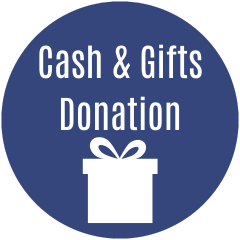
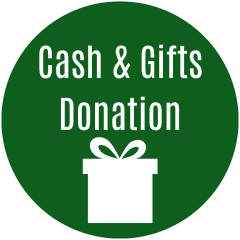
Added team member name, renamed files of those new members, added donation descriptions

diff --git a/_layouts/service.html b/_layouts/service.html
@@ -25,7 +25,7 @@ bodyClass: "page-service"
                   </div>
                   {% endif %}
                   <!-- <h2 class="feature-title">{{ feature.description }}</h2> -->
-                  <!-- <div class="feature-content">{{ feature.description }}</div> -->
+                  <div class="feature-content">{{ feature.description }}</div>
                 </div>
               </div>
               {% endfor %}

diff --git a/assets/css/style.scss b/assets/css/style.scss
@@ -2,8 +2,8 @@
 ---
 
 // Colors
-$primary: #002f59;
-$primary-dark: #002f59;
+$primary: #0e5e1e;
+$primary-dark: #0e5e1e;
 $secondary: #f88379;
 $black: #2f2f41;
 $white: #ffffff;

diff --git a/_team/roman.md b/_team/roman.md
@@ -1,0 +1,10 @@
+---
+title: "Roman"
+date: 2018-12-20T13:44:30+10:00
+image: "https://media.licdn.com/dms/image/v2/C4E03AQGqUZfsJ7Oy4Q/profile-displayphoto-shrink_800_800/profile-displayphoto-shrink_800_800/0/1626424504198?e=1743638400&v=beta&t=APK0xNMgZyLMDP-gBEfH3u3oqC-twDWlKdz79qkrt_Q"
+jobtitle: "Internal and Grading Committee Coordinator"
+linkedinurl: ""
+weight: 3
+---
+
+Lorem ipsum dolor sit amet, consectetur adipiscing elit, sed do eiusmod tempor incididunt ut labore et dolore magna aliqua. Bibendum arcu vitae elementum curabitur vitae nunc sed. Tortor at risus viverra adipiscing at in.

diff --git a/_team/angel-a.md b/_team/angel-a.md
@@ -1,0 +1,11 @@
+---
+title: "Angel Avalos"
+date: 2018-11-19T10:47:58+10:00
+image: "https://media.licdn.com/dms/image/v2/C4E03AQGqUZfsJ7Oy4Q/profile-displayphoto-shrink_800_800/profile-displayphoto-shrink_800_800/0/1626424504198?e=1743638400&v=beta&t=APK0xNMgZyLMDP-gBEfH3u3oqC-twDWlKdz79qkrt_Q"
+jobtitle: "Chief Financial Officer"
+linkedinurl: "https://www.linkedin.com/example2"
+promoted: true
+weight: 2
+---
+
+Very epic person.

diff --git a/_team/luis-v.md b/_team/luis-v.md
@@ -1,0 +1,11 @@
+---
+title: "Luis Velazquez"
+date: 2018-11-19T10:47:58+10:00
+image: "https://media.licdn.com/dms/image/v2/C5603AQHvWqqNv7dZSQ/profile-displayphoto-shrink_800_800/profile-displayphoto-shrink_800_800/0/1629663704275?e=1743033600&v=beta&t=A72tvulweJ-px3H6L_iN7roM_ueJeyaQVgewMF-9Sqk"
+jobtitle: "President"
+linkedinurl: "https://www.linkedin.com/in/luis-velasquez-jr/"
+promoted: true
+weight: 1
+---
+
+Mortalis.

diff --git a/_team/karina.md b/_team/karina.md
@@ -1,0 +1,8 @@
+---
+title: "Karina"
+date: 2018-12-20T13:44:23+10:00
+image: "https://media.licdn.com/dms/image/v2/C4E03AQGqUZfsJ7Oy4Q/profile-displayphoto-shrink_800_800/profile-displayphoto-shrink_800_800/0/1626424504198?e=1743638400&v=beta&t=APK0xNMgZyLMDP-gBEfH3u3oqC-twDWlKdz79qkrt_Q"
+jobtitle: "School Outreach Ambassador"
+linkedinurl: "https://www.linkedin.com/"
+weight: 3
+---

diff --git a/_team/derek.md b/_team/derek.md
@@ -1,0 +1,8 @@
+---
+title: "Derek"
+date: 2018-11-19T10:47:58+10:00
+image: "https://media.licdn.com/dms/image/v2/C4E03AQGqUZfsJ7Oy4Q/profile-displayphoto-shrink_800_800/profile-displayphoto-shrink_800_800/0/1626424504198?e=1743638400&v=beta&t=APK0xNMgZyLMDP-gBEfH3u3oqC-twDWlKdz79qkrt_Q"
+jobtitle: "External Outreach Coordinator"
+linkedinurl: ""
+weight: 7
+---

diff --git a/_team/nubia.md b/_team/nubia.md
@@ -1,0 +1,8 @@
+---
+title: "Nubia"
+date: 2018-12-20T13:45:06+10:00
+image: "https://media.licdn.com/dms/image/v2/C4E03AQGqUZfsJ7Oy4Q/profile-displayphoto-shrink_800_800/profile-displayphoto-shrink_800_800/0/1626424504198?e=1743638400&v=beta&t=APK0xNMgZyLMDP-gBEfH3u3oqC-twDWlKdz79qkrt_Q"
+jobtitle: "Developer"
+promoted: true
+weight: 2
+---

diff --git a/_team/jacob.md b/_team/jacob.md
@@ -1,0 +1,7 @@
+---
+title: "Jacob"
+date: 2018-12-20T13:44:55+10:00
+image: "https://media.licdn.com/dms/image/v2/C4E03AQGqUZfsJ7Oy4Q/profile-displayphoto-shrink_800_800/profile-displayphoto-shrink_800_800/0/1626424504198?e=1743638400&v=beta&t=APK0xNMgZyLMDP-gBEfH3u3oqC-twDWlKdz79qkrt_Q"
+jobtitle: "General Member"
+weight: 5
+---

diff --git a/_team/laura.md b/_team/laura.md
@@ -1,0 +1,7 @@
+---
+title: "Laura"
+date: 2018-12-20T13:44:55+10:00
+image: "https://media.licdn.com/dms/image/v2/C4E03AQGqUZfsJ7Oy4Q/profile-displayphoto-shrink_800_800/profile-displayphoto-shrink_800_800/0/1626424504198?e=1743638400&v=beta&t=APK0xNMgZyLMDP-gBEfH3u3oqC-twDWlKdz79qkrt_Q"
+jobtitle: "Granter Writer"
+weight: 4
+---
